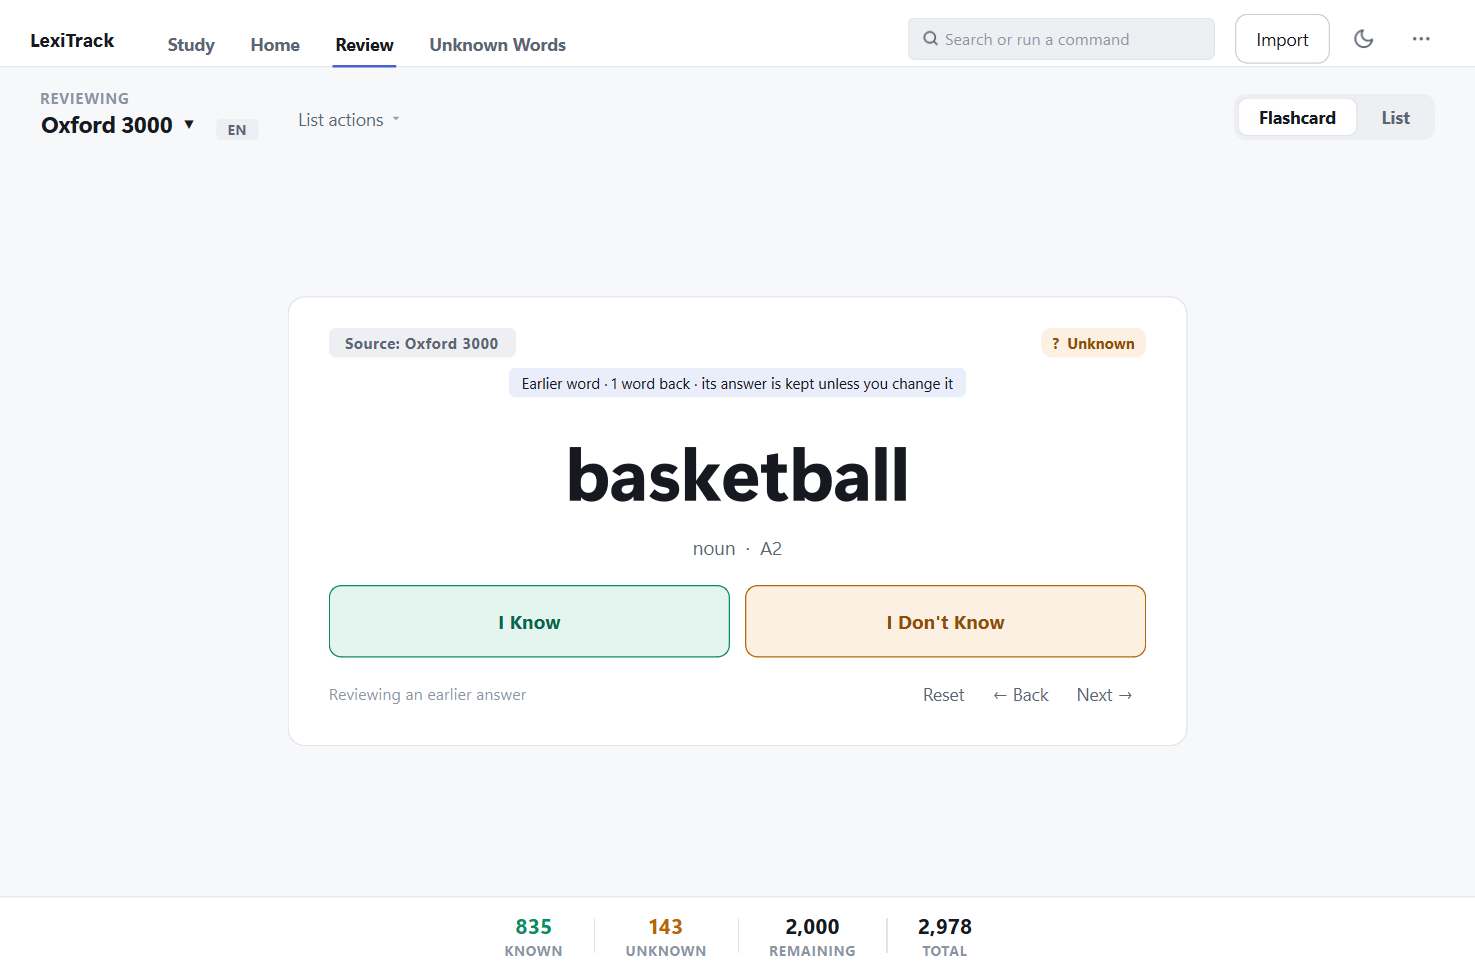
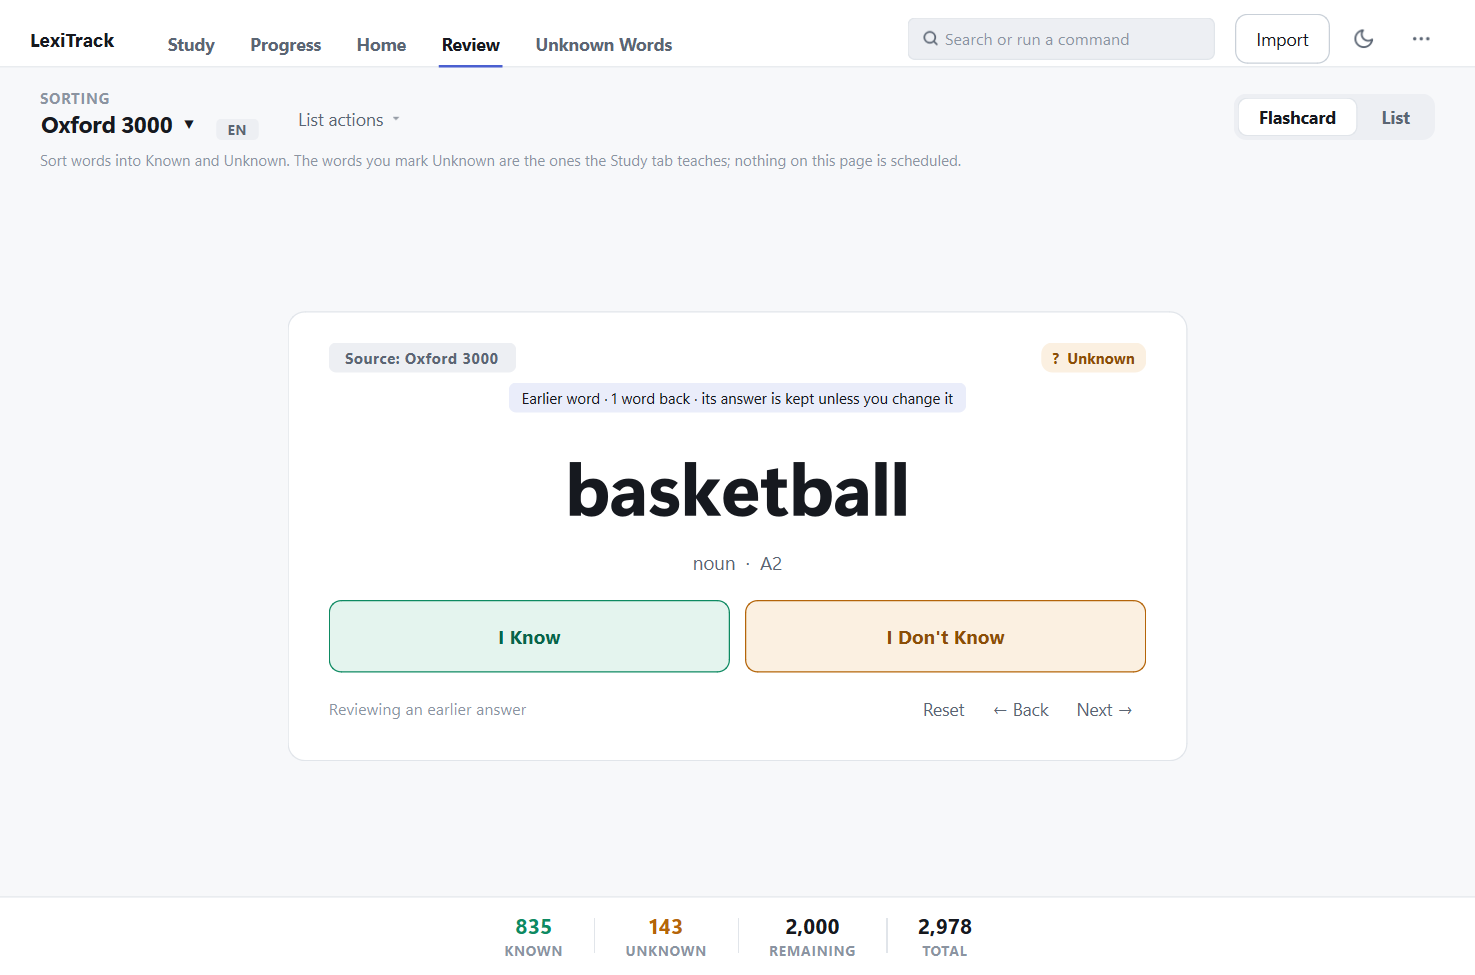
docs: README for Progress, a word's history, undo, the setup and fitting
The README now says that the Review tab sorts and the study plan teaches the
Unknown words, and covers the first-run setup, How LexiTrack Works, Undo, the
Progress tab, a word's history, All my lists, the weekly summary and the
optional optimizer. The screenshot tool captures Progress and a word's
history and clears the sample's setup events; all screenshots regenerated.
A word with no card now says truly why it is not scheduled.

diff --git a/tools/screenshots.py b/tools/screenshots.py
@@ -8,7 +8,8 @@ configuration, so a real token in ``.env`` is never read, and no page that
 prints a file path is captured, so no user name appears in an image.
 
 The Study screenshots run the sample plan forward a week on a frozen clock,
-so they show real reviews, a real week ahead and real hard words.
+so they show real reviews, a real week ahead and real hard words, and the
+Progress page and a word's history show that week's real record.
 
 Usage::
 
@@ -33,8 +34,8 @@ from datetime import UTC, datetime  # noqa: E402
 import pymupdf  # noqa: E402
 from design_mockups import build_sample  # noqa: E402
 from PySide6.QtCore import QSettings  # noqa: E402
-from PySide6.QtGui import QPainter  # noqa: E402
-from PySide6.QtWidgets import QApplication  # noqa: E402
+from PySide6.QtGui import QColor, QPainter, QPixmap  # noqa: E402
+from PySide6.QtWidgets import QApplication, QScrollArea  # noqa: E402
 
 from lexitrack.core.clock import FrozenClock  # noqa: E402
 from lexitrack.database.connection import Database  # noqa: E402
@@ -44,6 +45,7 @@ from lexitrack.services.learning_service import LearningService  # noqa: E402
 from lexitrack.services.vocabulary_service import VocabularyService  # noqa: E402
 from lexitrack.telegram.config import TelegramConfig  # noqa: E402
 from lexitrack.ui.components.cards import ModeSwitch  # noqa: E402
+from lexitrack.ui.components.word_history import WordHistoryDialog  # noqa: E402
 from lexitrack.ui.export_dialog import (  # noqa: E402
     ExportDialog,
     ExportOrder,
@@ -51,11 +53,11 @@ from lexitrack.ui.export_dialog import (  # noqa: E402
     order_words,
 )
 from lexitrack.ui.import_dialog import ImportDialog  # noqa: E402
-from lexitrack.ui.main_window import HOME, STUDY, UNKNOWN, MainWindow  # noqa: E402
+from lexitrack.ui.main_window import HOME, PROGRESS, STUDY, UNKNOWN, MainWindow  # noqa: E402
 from lexitrack.ui.settings_dialog import SettingsDialog  # noqa: E402
 from lexitrack.ui.study_plan_dialog import StudyPlanDialog  # noqa: E402
 from lexitrack.ui.telegram_controller import TelegramController  # noqa: E402
-from lexitrack.ui.theme import ThemeManager, ThemeName  # noqa: E402
+from lexitrack.ui.theme import ThemeManager, ThemeName, current_palette  # noqa: E402
 
 OUT = ROOT / "docs" / "screenshots"
 SIZE = (1180, 780)
@@ -73,6 +75,10 @@ def main() -> int:
     data = Path(os.environ["LEXITRACK_DATA_DIR"])
     service = VocabularyService(Database(data / "vocabulary.db"))
     lists = build_sample(service)
+    # Building the sample marks statuses on today's wall clock, days after the
+    # frozen week the Study screenshots run through; left in, every word's
+    # history would show a stray "Marked Unknown by hand" in the middle.
+    service.database.connection.execute("DELETE FROM word_status_events")
     current = lists.get("Oxford 3000") or lists["German A1"]
 
     OUT.mkdir(parents=True, exist_ok=True)
@@ -217,6 +223,31 @@ def study_screens(app, window, engine, clock, list_id, theme, grab) -> None:
     app.processEvents()
     grab(settings, "settings")
     settings.reject()
+
+    # Progress, the whole page rather than the window's view of it.
+    window.resize(1180, 1400)
+    window.show_page(PROGRESS)
+    app.processEvents()
+    body = window.progress.findChild(QScrollArea).widget()
+    body.resize(window.progress.width(), body.sizeHint().height())
+    app.processEvents()
+    # The page is transparent over the window; alone it would come out on black.
+    shot = QPixmap(body.size())
+    shot.fill(QColor(current_palette().background))
+    body.render(shot)
+    shot.save(str(OUT / "progress.png"))
+    print("wrote docs/screenshots/progress.png")
+    window.resize(*SIZE)
+
+    # The history of the word with the most to show.
+    rows = window._progress.words()
+    busiest = max(rows, key=lambda row: (row.answers, row.agains))
+    history = WordHistoryDialog(window._progress.journey(busiest.word.id), parent=window)
+    history.resize(700, 860)
+    history.show()
+    app.processEvents()
+    grab(history, "word-history")
+    history.reject()
 
 
 if __name__ == "__main__":

diff --git a/lexitrack/ui/components/word_history.py b/lexitrack/ui/components/word_history.py
@@ -101,7 +101,12 @@ def why_sentence(journey: WordJourney) -> str:
     if card is None:
         if journey.word.status is ReviewStatus.KNOWN:
             return "Known before you studied it here, so it is not on your schedule."
-        return "Not in your study plan yet. It is offered as a new word once it is Unknown."
+        if journey.word.status is ReviewStatus.UNKNOWN:
+            return (
+                "Unknown, and not introduced yet: a study plan that includes one of its "
+                "lists offers it as a new word."
+            )
+        return "Not sorted yet. Mark it Unknown and your study plan will teach it."
     if card.state is CardState.ARCHIVED:
         return "Marked Known by hand, so it has left the schedule. Reset it to bring it back."
     last = journey.last_answer

diff --git a/README.md b/README.md
@@ -9,10 +9,14 @@ a set number of new words each day and asks about each one again on the day
 you are most likely to forget it, using the FSRS spaced-repetition scheduler.
 You can do the day's work at the desk or on your phone through a Telegram bot.
 
-You can also go through any list freely, one word at a time — **I Know** or
-**I Don't Know** — or work through it in a table. Everything you answer is
-remembered, shared across every list a word belongs to, and exportable as a
-printable PDF, a CSV or JSON.
+Before that, you sort: go through any list one word at a time — **I Know** or
+**I Don't Know** — or work through it in a table. The words you mark Unknown
+are the ones your study plan teaches; the ones you know are never offered.
+
+Nothing is hidden. Every answer, every change of status and every word's path
+from new to Known is on the **Progress** tab, and a calibration chart shows
+how well the scheduler's forecasts fit your memory — the basis for fitting it
+to you once there are enough answers.
 
 It runs on your machine. No account and no server; your vocabulary lives in a
 local SQLite file. The only network use is the optional Telegram bot.
@@ -23,6 +27,10 @@ local SQLite file. The only network use is the optional Telegram bot.
 <summary><b>More screens</b></summary>
 
 <br>
+
+![Progress: what was learned here, and every answer](docs/screenshots/progress.png)
+
+![A word's history](docs/screenshots/word-history.png)
 
 ![A review card](docs/screenshots/study-session.png)
 
@@ -40,8 +48,9 @@ local SQLite file. The only network use is the optional Telegram bot.
 
 ### Learning
 
-- **Study plans.** A plan is the set of lists you are working through. The
-  words of all its lists are combined, so a word in two lists is learned once.
+- **Study plans teach what you don't know.** A plan takes the Unknown words of
+  the lists you choose — or of **All my lists**, including lists added later.
+  A word in two lists is learned once; words you know are never offered.
 - **New words every day.** 25 by default, lowest CEFR level first. You study
   them however you like and confirm; LexiTrack never invents an answer for you.
 - **Spaced repetition with FSRS.** Each review is answered Again, Hard, Good or
@@ -55,6 +64,25 @@ local SQLite file. The only network use is the optional Telegram bot.
   Known by itself.
 - **Missed days are harmless.** Nothing is owed for a day you skipped. Overdue
   reviews come first, and you still get today's new words.
+- **Undo.** `Ctrl+Z`, or the button under the card, takes back your last
+  answer; on Telegram every card after the first has an Undo button. The
+  answer stays in the record, marked, and out of every count.
+
+### Progress and transparency
+
+- **Progress tab.** Words learned here, in progress, marked Known by hand and
+  known before your plan, kept apart; where the words stand; words introduced
+  and learned over time.
+- **Every answer and every change of status**, with its cause, in two complete
+  tables. Nothing the app records is out of your sight.
+- **A word's history.** When it was introduced and in which plan, every
+  answer, how long you were expected to remember it after each one, when and
+  why it became Known, and why it is due when it is.
+- **Does the schedule fit you?** The scheduler's forecasts against what you
+  then remembered, with an honest verdict when there are too few answers.
+- **Fitted to you** (optional). Once there are enough answers, the scheduler's
+  parameters can be fitted to your own memory, compared with the defaults on
+  your history first, used only if you choose, and reverted in one click.
 
 ### Telegram
 
@@ -63,6 +91,8 @@ local SQLite file. The only network use is the optional Telegram bot.
 - **Reviews on your phone.** One card at a time, each replacing the last, with
   the meaning hidden until you tap it.
 - **An evening reminder**, only if something is still waiting.
+- **A weekly summary** on Sunday evening: the week's answers, words learned
+  and the words giving you trouble.
 - **Private.** The bot answers only your chat. Its token lives in a `.env`
   file, never in the database or the backups, and never in the log.
 
@@ -94,6 +124,8 @@ local SQLite file. The only network use is the optional Telegram bot.
   Developer mode.
 - **Daily backups** of the database; the newest ten are kept.
 - **Safe upgrades.** Older databases are upgraded automatically, with a backup.
+- **A first-run setup** that asks the three questions a plan needs, and
+  **How LexiTrack Works** (`Shift+F1`) for everything else.
 - **Light and dark themes.**
 
 ## Requirements
@@ -120,6 +152,13 @@ declared in `pyproject.toml`; there is no `requirements.txt`. For development:
 
 ```bash
 pip install -e ".[dev]"
+```
+
+Fitting the scheduler to your own answers (*Settings → Advanced → Fitted to
+you*) needs PyTorch, a large download, so it is optional:
+
+```bash
+pip install -e ".[optimizer]"
 ```
 
 > **Windows note.** PySide6 unpacks deeply nested files, so installing into a
@@ -189,6 +228,17 @@ old file is kept in the data folder first (`vocabulary.v1-backup-<date>.db`,
 
 ## Usage
 
+### Your first start
+
+With no study plan yet, the Study page asks three questions: what to learn —
+**all your Unknown words** by default, with how many that is, or only some
+lists — how many new words a day, with how long that will take, and whether
+you want the day's words on your phone. **Start learning** creates the plan.
+If nothing is Unknown yet, it says so: sort a list on the **Review** tab first.
+
+**How LexiTrack Works** (`Shift+F1`, the **⋯** menu, or `Ctrl+K`) explains
+the tabs, your day, the four answers and what is recorded.
+
 ### Studying
 
 **Study** is the first tab. The **Today** panel lists the day's two steps and
@@ -201,14 +251,15 @@ has one button for the next thing to do:
 2. **Review.** Words due today come one at a time. Press **Space** to see the
    meaning, then answer **1** Again, **2** Hard, **3** Good or **4** Easy. Each
    button shows when the word would come back. **Esc** stops and keeps
-   everything answered so far.
+   everything answered so far. Pressed the wrong one? **Ctrl+Z**, or the
+   *Undo* under the card, takes back your last answer and shows the card again.
 
 ![A review card](docs/screenshots/study-session.png)
 
 Below the panel: **This week** shows how many reviews fall on each of the next
 seven days, **Words you find hard** lists the words you keep missing (they
 come first in every session), and **The last 30 days** gives four numbers for
-the month.
+the month. Click a learned or hard word for its history.
 
 ### How a word is learned
 
@@ -248,19 +299,42 @@ These days come from the scheduler with the default settings. Change
 *Count as known after* or, in Developer mode, the target retention, and they
 move with it.
 
+### Progress
+
+**Progress** (`Alt+P`) is everything since your first new word:
+
+- four numbers kept apart — **learned here** (Known by the schedule),
+  **in progress**, **marked Known by hand**, and **known before your plan**;
+- **where your words are**, from not yet answered to Known;
+- **over time**: words introduced and words learned, as running totals;
+- **does the schedule fit you?** — for each band of predicted recall, how
+  often you actually remembered, and a one-line verdict;
+- **words**: every studied word, filterable, with when it was introduced and
+  became Known, how many answers and how many Agains;
+- **all answers**: every answer from Study and Telegram, newest first,
+  including the ones taken back.
+
+Double-click any row, or select a word in any table and choose *Show history*
+in the details panel, for that word's whole history.
+
+![A word's history](docs/screenshots/word-history.png)
+
 ### Study plans
 
-**Study plan** on the Study page (`Ctrl+P`) chooses the lists a plan draws
-from and shows what the choice means before you save it: how many words, how
-many are still to learn, and about how many days that is at your daily pace.
-You can keep several plans and switch between them; switching or deleting a
-plan never touches what you have already learned.
+**Study plan** on the Study page (`Ctrl+P`). A plan teaches the words you
+marked **Unknown** in the lists it draws from — never the ones you know. Each
+list shows how many words it would teach, how many are in progress and how
+many you know; the summary says how many are left to introduce and how long
+that takes at your daily pace, by the same rule the Study page uses. **All my
+lists** makes a plan over every list, including lists you import later. You
+can keep several plans and switch between them; switching or deleting a plan
+never touches what you have already learned.
 
 ![The Study Plan window](docs/screenshots/study-plan.png)
 
-New words come from words you marked **Unknown**. A freshly imported list is
-all "not reviewed"; turn on *Settings → Learning → Offer words you have never
-answered* to learn from it.
+A freshly imported list is all "never answered", so it has nothing Unknown to
+teach, and its row says so: sort it on the Review tab first, or turn on
+*Settings → Learning → Offer words you have never answered*.
 
 ### Telegram
 
@@ -277,6 +351,9 @@ left (both hours are settings). `/today` shows today's words and `/review`
 starts a session. It works only while LexiTrack is running, so turn on *Start
 with Windows* to have it come back after a restart. If the computer was off at
 06:00, the message comes when it starts — once, never a pile of old ones.
+Every card after the first has **↶ Undo** for a mis-tap, and on Sunday
+evening a **weekly summary** arrives (it can be switched off in *Settings →
+Telegram*).
 
 `.env` is ignored by git and never copied into a backup. If a token ever leaks,
 revoke it in @BotFather with `/revoke` and paste the new one.
@@ -297,6 +374,13 @@ simulator that runs the real scheduler forward a year over your plan and
 reports the daily load; it writes nothing. **Debug logging** writes one log
 file a day while it is on; nothing is written to disk while it is off.
 
+**Fitted to you**, on the same page, says how far away fitting the scheduler to
+your answers is: it needs 512 answers given on a later day than the word's
+previous answer, and the optional optimizer. When both are there, **Fit to my
+answers** runs in the background, then shows how much better the fitted
+parameters would have predicted your answers. Nothing changes unless you
+press **Use these**, and **Use the defaults** goes back.
+
 ### Importing
 
 **Import** in the app bar (`Ctrl+O`). Choose one or more
@@ -310,10 +394,11 @@ If a file states its language and you choose a list in another language, the
 preview explains the clash instead of importing. Nothing is written until you
 press Import.
 
-### Reviewing with flashcards
+### Sorting with flashcards
 
 **Continue** on Home, or the **Review** tab, goes through a list freely, with
-no schedule. The list you are reviewing is the name at the top — click it to
+no schedule: this is sorting, and the words you mark I Don't Know are the ones
+your study plan teaches. The list you are reviewing is the name at the top — click it to
 switch lists. Where the word came from is the small "Source" line on the card.
 
 ![Flashcards, stepped back to an earlier answer](docs/screenshots/flashcard.png)
@@ -322,7 +407,7 @@ Press **←** (or Backspace) to step back through your answers and **→** to
 come forward again. The card shows the earlier word with its current status
 and says so; nothing changes unless you answer again or press R.
 
-### Reviewing as a list
+### Sorting as a list
 
 Switch to **List** (`Ctrl+2`). Search, filter by status or CEFR level (click
 A1, B2… to combine levels), sort by any column, select rows
@@ -386,6 +471,7 @@ key in one place, with a filter.
 | Study reviews | `Space` | Show the meaning; once it shows, answer Good |
 | | `1` / `2` / `3` / `4` | Again / Hard / Good / Easy |
 | | `Esc` | Stop and keep what you answered |
+| | `Ctrl+Z` | Take back your last answer |
 | Flashcards | `K` | I Know |
 | | `U` | I Don't Know |
 | | `←` or `Backspace` | Previous word (status unchanged) |
@@ -403,8 +489,9 @@ key in one place, with a filter.
 | Home | Arrow keys, `Enter` | Move between lists, open one |
 | Everywhere | `Ctrl+K` | Search commands, lists and words |
 | | `F1` | Keyboard Shortcuts |
+| | `Shift+F1` | How LexiTrack Works |
 | | `Ctrl+Tab` / `Ctrl+Shift+Tab` | Next / previous page |
-| | `Alt+S` / `Alt+H` / `Alt+R` / `Alt+U` | Study / Home / Review / Unknown Words |
+| | `Alt+S` / `Alt+P` / `Alt+H` / `Alt+R` / `Alt+U` | Study / Progress / Home / Review / Unknown Words |
 | | `Ctrl+P` | Study plan |
 | | `Ctrl+,` | Settings |
 | | `Ctrl+L` | Switch list |
